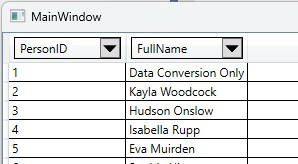
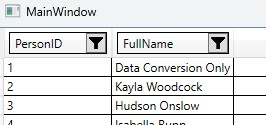
Change Images

diff --git a/src/WpfDataGridFilter/FilterableDataGridColumnHeader.cs b/src/WpfDataGridFilter/FilterableDataGridColumnHeader.cs
@@ -29,11 +29,10 @@ namespace WpfDataGridFilter
         ToggleButton HeaderToggle;
 
         // Images for Header Icons
-        Image ImageArrowBlack;
-        Image ImageArrowRed;
-        BitmapImage ImagePopBitmap;
+        Image ImageFilterBlack;
+        Image ImageFilterRed;
 
-        // Popup invoked when 
+        // Popup invoked on User Click
         Popup? HeaderPopUp;
 
         #region Dependency Properties
@@ -149,7 +148,7 @@ namespace WpfDataGridFilter
                     {
                         f.IsFiltered = filterStateChangedEventArgs.FilterState.Filters.ContainsKey(f.PropertyName);
 
-                        f.HeaderToggle.Content = f.IsFiltered ? f.ImageArrowRed : (object)f.ImageArrowBlack;
+                        f.HeaderToggle.Content = f.IsFiltered ? f.ImageFilterRed : (object)f.ImageFilterBlack;
                     };
 
                 })));
@@ -248,34 +247,27 @@ namespace WpfDataGridFilter
             Assembly assembly = Assembly.GetExecutingAssembly();
 
             // Read the Embedded Images from the current Assembly
-            using (Stream BlackArrowImageStream = assembly.GetManifestResourceStream("WpfDataGridFilter.Resources.Pictures.BlackArrowDown.png")!,
-                RedArrowImageStream = assembly.GetManifestResourceStream("WpfDataGridFilter.Resources.Pictures.RedArrowDown.png")!,
-                PopArrowImageStream = assembly.GetManifestResourceStream("WpfDataGridFilter.Resources.Pictures.ResizePopArrow.png")!,
+            using (Stream BlackFilterImageStream = assembly.GetManifestResourceStream("WpfDataGridFilter.Resources.Pictures.FilterBlack.png")!,
+                RedFilterImageStream = assembly.GetManifestResourceStream("WpfDataGridFilter.Resources.Pictures.FilterRed.png")!,
                 LayoutStream = assembly.GetManifestResourceStream("WpfDataGridFilter.Resources.Layouts.FilterableDataGridColumnHeader.xaml")!)
             {
-                BitmapImage ImageBlackArrowBitmap = new BitmapImage();
+                BitmapImage ImageBlackFilterBitmap = new BitmapImage();
 
-                ImageBlackArrowBitmap.BeginInit();
-                ImageBlackArrowBitmap.StreamSource = BlackArrowImageStream;
-                ImageBlackArrowBitmap.EndInit();
+                ImageBlackFilterBitmap.BeginInit();
+                ImageBlackFilterBitmap.StreamSource = BlackFilterImageStream;
+                ImageBlackFilterBitmap.EndInit();
 
-                ImageArrowBlack = new Image();
-                ImageArrowBlack.Source = ImageBlackArrowBitmap;
+                ImageFilterBlack = new Image();
+                ImageFilterBlack.Source = ImageBlackFilterBitmap;
 
-                BitmapImage ImageRedArrowBitmap = new BitmapImage();
+                BitmapImage ImageRedFilterBitmap = new BitmapImage();
 
-                ImageRedArrowBitmap.BeginInit();
-                ImageRedArrowBitmap.StreamSource = RedArrowImageStream;
-                ImageRedArrowBitmap.EndInit();
+                ImageRedFilterBitmap.BeginInit();
+                ImageRedFilterBitmap.StreamSource = RedFilterImageStream;
+                ImageRedFilterBitmap.EndInit();
 
-                ImageArrowRed = new Image();
-                ImageArrowRed.Source = ImageRedArrowBitmap;
-
-                ImagePopBitmap = new BitmapImage();
-
-                ImagePopBitmap.BeginInit();
-                ImagePopBitmap.StreamSource = PopArrowImageStream;
-                ImagePopBitmap.EndInit();
+                ImageFilterRed = new Image();
+                ImageFilterRed.Source = ImageRedFilterBitmap;
 
                 StreamReader LayoutStreamReader = new StreamReader(LayoutStream);
 
@@ -289,7 +281,7 @@ namespace WpfDataGridFilter
 
             // Configure the Toggle Button for opening and closing the Filter Popup
             HeaderToggle = (ToggleButton)LogicalTreeHelper.FindLogicalNode(RootObject, "ControlToggle");
-            HeaderToggle.Content = ImageArrowBlack;
+            HeaderToggle.Content = ImageFilterBlack;
             HeaderToggle.Visibility = Visibility.Visible;
 
             // Close the Popup, if we uncheck the Filter Toggle

diff --git a/src/WpfDataGridFilter/Translations/ITranslations.cs b/src/WpfDataGridFilter/Translations/ITranslations.cs
@@ -78,7 +78,6 @@ namespace WpfDataGridFilter.Translations
             new () { Value = FilterOperatorEnum.IsNotNull, Translation = "Is Not Null" },
             new () { Value = FilterOperatorEnum.IsEmpty, Translation = "Is Empty" },
             new () { Value = FilterOperatorEnum.IsNotEmpty, Translation = "Is Not Empty" },
-
             new () { Value = FilterOperatorEnum.Before, Translation = "Before" },
             new () { Value = FilterOperatorEnum.After, Translation = "After" },
         ];

diff --git a/README.md b/README.md
@@ -1,0 +1,26 @@
+# WpfDataGridFilter #
+
+"I just want to filter some data in a `DataGrid`, why is all this so complicated?"... said everyone using a WPF `DataGrid`.
+
+We just need to add a `FilterableDataGridColumnHeader` as the `DataGridColumn.Header` for the Properties we want to Filter:
+
+```xml
+<DataGrid ItemsSource="{Binding ViewModel.People}" AutoGenerateColumns="False">
+    <DataGrid.Columns>
+        <DataGridTextColumn Binding="{Binding PersonID}">
+            <DataGridTextColumn.Header>
+                <wpfdatagridfilter:FilterableDataGridColumnHeader FilterState="{Binding FilterState}" HeaderText="PersonID" PropertyName="PersonID" Height="30" FilterType="IntNumericFilter"></wpfdatagridfilter:FilterableDataGridColumnHeader>
+            </DataGridTextColumn.Header>
+        </DataGridTextColumn>
+        <DataGridTextColumn Binding="{Binding FullName}">
+            <DataGridTextColumn.Header>
+                <wpfdatagridfilter:FilterableDataGridColumnHeader FilterState="{Binding FilterState}" HeaderText="FullName" PropertyName="FullName" Height="30" FilterType="StringFilter"></wpfdatagridfilter:FilterableDataGridColumnHeader>
+            </DataGridTextColumn.Header>
+        </DataGridTextColumn>
+    </DataGrid.Columns>
+</DataGrid>
+```
+
+This library adds 
+
+![alt text](https://github.com/bytefish/WpfDataGridFilter/blob/main/doc/filter-datagridcolumnheader.jpg?raw=true)
